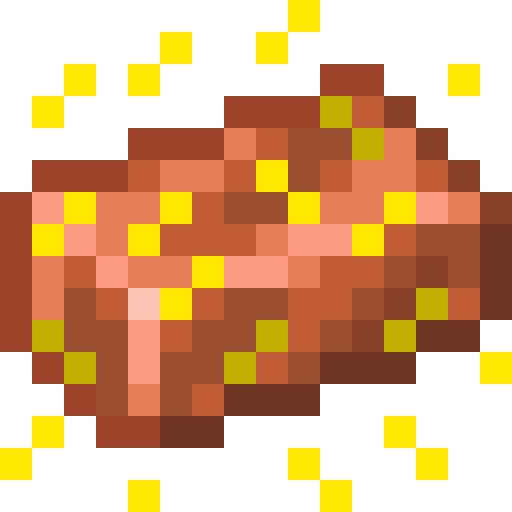
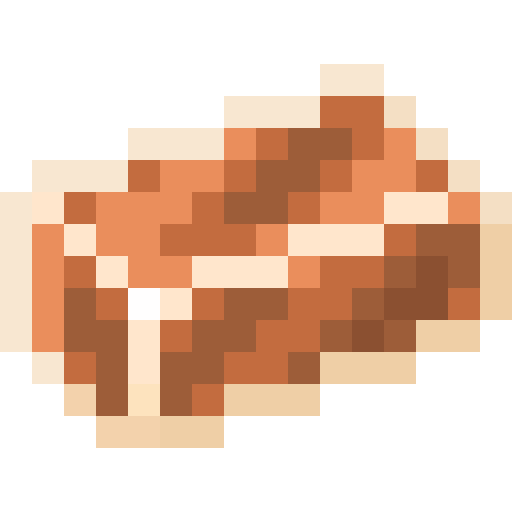
Improve Energized Copper Ingot and Energized Gold Ingot textures (Thanks @flashbulbs)
(cherry picked from commit 57c1f80704817a804afb5b91322f1f9ac1bdb8ac)

diff --git a/README.md b/README.md
@@ -39,6 +39,10 @@ There is also a guide book
 
 *Feel free to include this mod in your ModPack :-)*
 
+## Credits
+
+- Energized Copper Ingot and Energized Gold Ingot textures ([flashbulbs](https://github.com/flashbulbs)).
+
 ## Supported versions:
 Mod version: MC version
 - 1.0.x: 1.19.3
